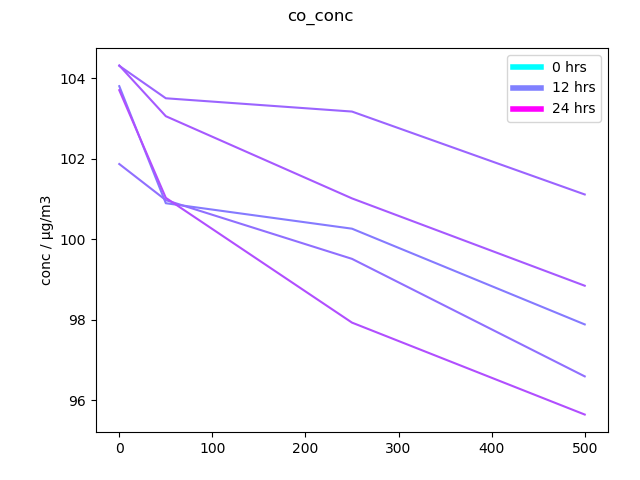
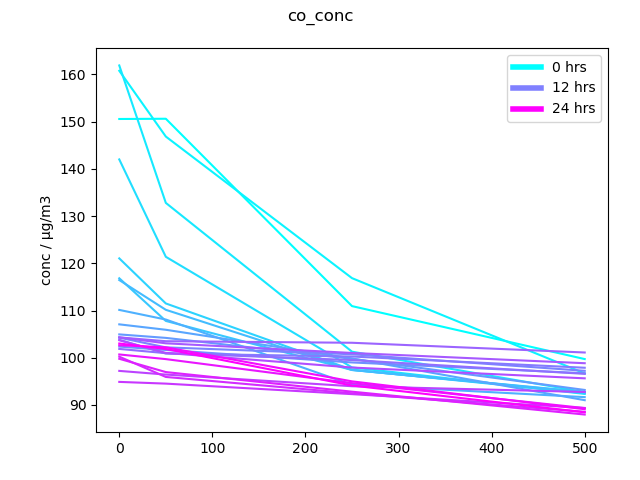
24 time

diff --git a/predictions-corroborative/plots.py b/predictions-corroborative/plots.py
@@ -45,7 +45,7 @@ for var in variables:
             ]
 
             pct = time / (hours - 1)
-            if(11 < time < 17):
+            if(11 < time < 17 or True):
                 p, = plt.plot(ds.levels, data, color=color(pct))
 
             custom_lines = [Line2D([0], [0], color=min_color, lw=4),
@@ -53,4 +53,4 @@ for var in variables:
                             Line2D([0], [0], color=max_color, lw=4)]
             ax.legend(custom_lines, ['0 hrs', '12 hrs', '24 hrs'])
 
-        plt.savefig('predictions-secret/figures/plots/' + var)
+        plt.savefig('predictions-corroborative/figures/plots/' + var)

diff --git a/predictions-corroborative/dataset.py b/predictions-corroborative/dataset.py
@@ -4,7 +4,7 @@ import numpy as np
 
 class Dataset:
     def __init__(self, var=None):
-        ds = nc.Dataset('predictions-secret/york.nc')
+        ds = nc.Dataset('predictions-corroborative/york.nc')
 
         if var is not None:
             self.data = ds[var][:]
